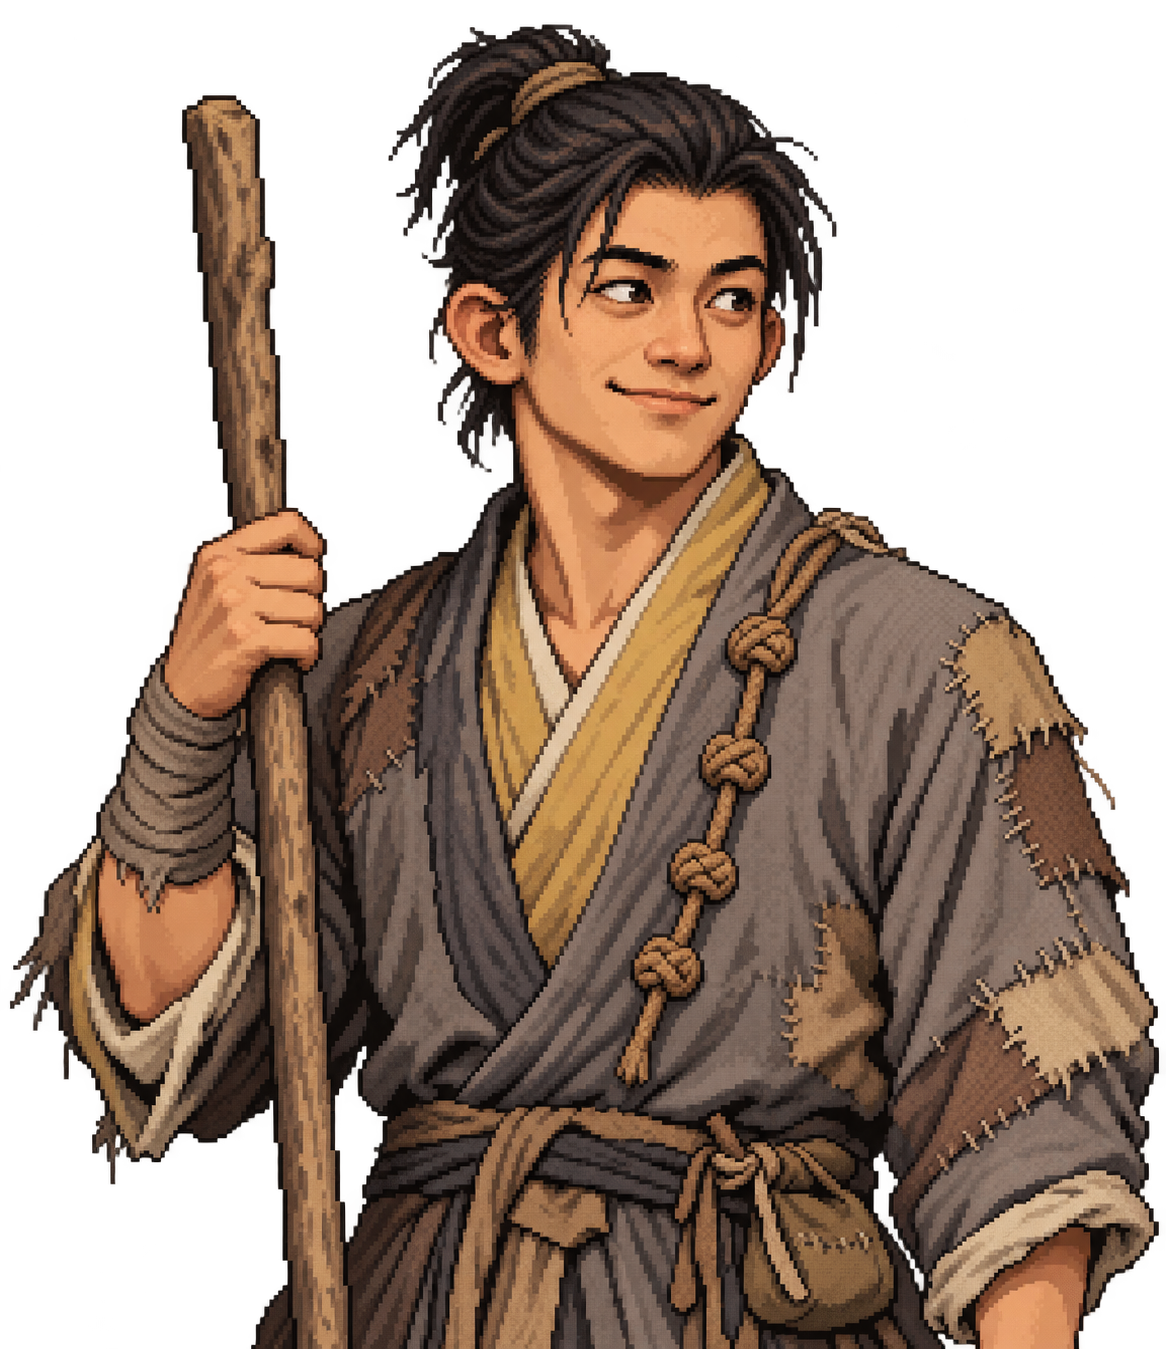
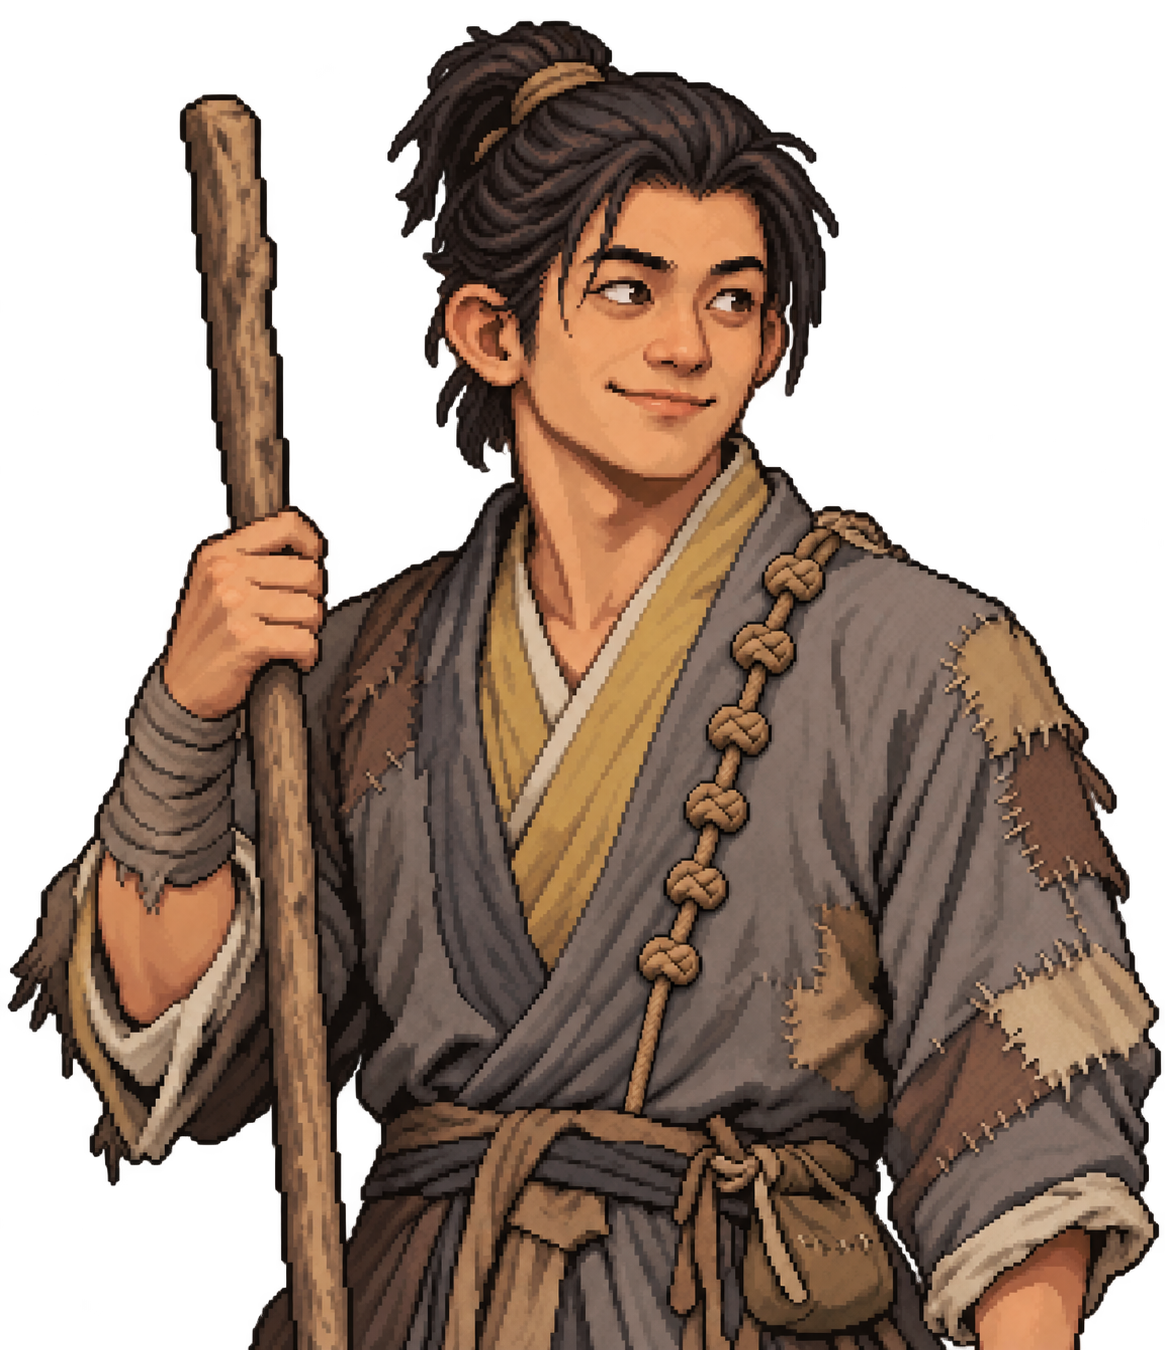
Set Lee Sochil to six-knot rank and update portrait

diff --git a/docs/characters/beggars.md b/docs/characters/beggars.md
@@ -16,11 +16,11 @@
 - 대사: “앉게. 높은 자리는 없지만, 자네 앉을 자리 하나야 만들 수 있지.”
 - 일러스트: 낮은 벽에 등을 기대고 바닥에 편하게 앉아 한쪽 무릎을 세운다. 긴 봉은 몸 옆에 비스듬히 세워 둔다. 느긋한 미소와 주변을 살피는 눈으로 자유로움과 책임감을 함께 표현한다. 후속 사용자 요청에 따라 벽·바닥·골목 배경은 제거하고 인물과 봉만 투명 배경에 남긴다. 벽에 기대는 느낌은 기울어진 상체와 편안한 앉은 자세로 표현한다.
 
-## 이소칠 — 젊은 방도, 4결개 초안
+## 이소칠 — 젊은 방도, 6결개
 
-- 24세. 장터·나루에서 소식을 확인하고 사람을 찾는 일을 맡는 젊은 방도. 4결은 하위 계급 체계와 함께 창작 제안이다.
+- 24세. 장터·나루에서 소식을 확인하고 사람을 찾는 일을 맡는 젊은 방도. 6결개는 후속 사용자 확정이다. 분타주 취임은 지정되지 않았으므로 별도로 확정하지 않는다.
 - 외형: 작고 넓은 얼굴, 짧고 들린 코끝, 도드라진 귀, 크기가 조금 다른 눈과 눈치 빠른 시선. 한쪽 입꼬리만 올라가는 자신 있는 미소. 수염 없는 청년 얼굴과 짧게 묶은 실용적인 머리, 날렵한 보통 체격. 미소년형이 아니라 생활감 있는 인상.
-- 복식·소품: 수선한 회갈색 짧은 겉옷과 누런 안옷, 천 허리띠와 작은 생활 주머니, 네 매듭의 계급끈. 길고 평범한 목봉. 쓰레기나 술병으로 성격을 대신하지 않는다.
+- 복식·소품: 수선한 회갈색 짧은 겉옷과 누런 안옷, 천 허리띠와 작은 생활 주머니, 여섯 매듭의 계급끈. 길고 평범한 목봉. 쓰레기나 술병으로 성격을 대신하지 않는다.
 - 무학: 타구봉법. 방주의 직전제자가 아니며 향룡십팔장을 익히지 않았다.
 - 성격: 붙임성 있고 눈치가 빠르며 듣기와 기억에 능하다. 소문의 출처를 확인하고 상대가 말하기 싫어하는 사정은 억지로 캐묻지 않는다.
 - 유능함: 사람의 이동·물자 흐름·증언의 시간 차이를 연결한다. 정보가 부족할 때는 모른다고 보고하며, 모르는 사실까지 꿰뚫는 능력으로 묘사하지 않는다.
@@ -31,7 +31,9 @@
 
 ## 시각 원칙
 
-기존의 개성 있는 도트 화풍을 따른다. 만복은 기대 앉은 전신 자세의 투명 배경 일러스트, 소칠은 기존 대화용 상반신 초상화로 제작한다. 만복에게만 별도 배경이 붙어 다른 인물과 이질감이 생기지 않도록 한다. 매듭 수는 설정상 9개·4개이며 생성 이미지의 판독성은 별도 검토한다. 앞으로 정확한 계급 전달은 초상화만이 아닌 UI·인물 정보에서도 제공한다.
+기존의 개성 있는 도트 화풍을 따른다. 만복은 기대 앉은 전신 자세의 투명 배경 일러스트, 소칠은 기존 대화용 상반신 초상화로 제작한다. 만복에게만 별도 배경이 붙어 다른 인물과 이질감이 생기지 않도록 한다. 매듭 수는 설정상 9개·6개이며 생성 이미지의 판독성은 별도 검토한다. 앞으로 정확한 계급 전달은 초상화만이 아닌 UI·인물 정보에서도 제공한다.
 
 - [구만복 일러스트](../../assets/portraits/beggars/gumanbok.png)
 - [이소칠 초상화](../../assets/portraits/beggars/leesochil.png)
+
+이소칠의 후속 수정: 사용자 지정으로 6결개를 확정하고 초상화 계급끈을 여섯 매듭으로 갱신했다. 타구봉법만 습득한 설정과 직전제자가 아니라는 설정은 유지한다.

diff --git a/docs/factions/beggars.md b/docs/factions/beggars.md
@@ -22,14 +22,14 @@
 
 ## 결개 계급
 
-9결개·8결개는 사용자 확정이다. 아래 하위 분류는 인물 제작을 위한 창작 초안이며 확정 규칙으로 강제하지 않는다.
+방주 9결개·장로 8결개와 이소칠 6결개는 사용자 확정이다. 아래 하위 분류는 인물 제작을 위한 창작 초안이며 확정 규칙으로 강제하지 않는다.
 
 | 결수 | 지위·운용 초안 |
 |---|---|
 | 9결 | 방주 — 확정 |
 | 8결 | 장로 — 확정 |
 | 7결 | 총타·광역 실무 책임 방도 — 제안 |
-| 6결 | 분타주 — 제안 |
+| 6결 | 숙련 방도·분타 실무 책임급 — 직책은 별도 지정. 이소칠의 6결개는 사용자 확정 |
 | 1~5결 | 경력·공로·책임에 따라 승결하는 일반 방도 — 제안 |
 
 매듭은 옷이나 띠에 부착한 계급끈의 개별 매듭으로 표시한다. 매듭이 실력·인품의 숫자 점수인 것은 아니다. 무공을 익혔다는 이유만으로 자동 승결하지 않는다. 무결 입문자 제도·승결 절차·장로와 분타주의 겸직 규칙은 미정이다.
